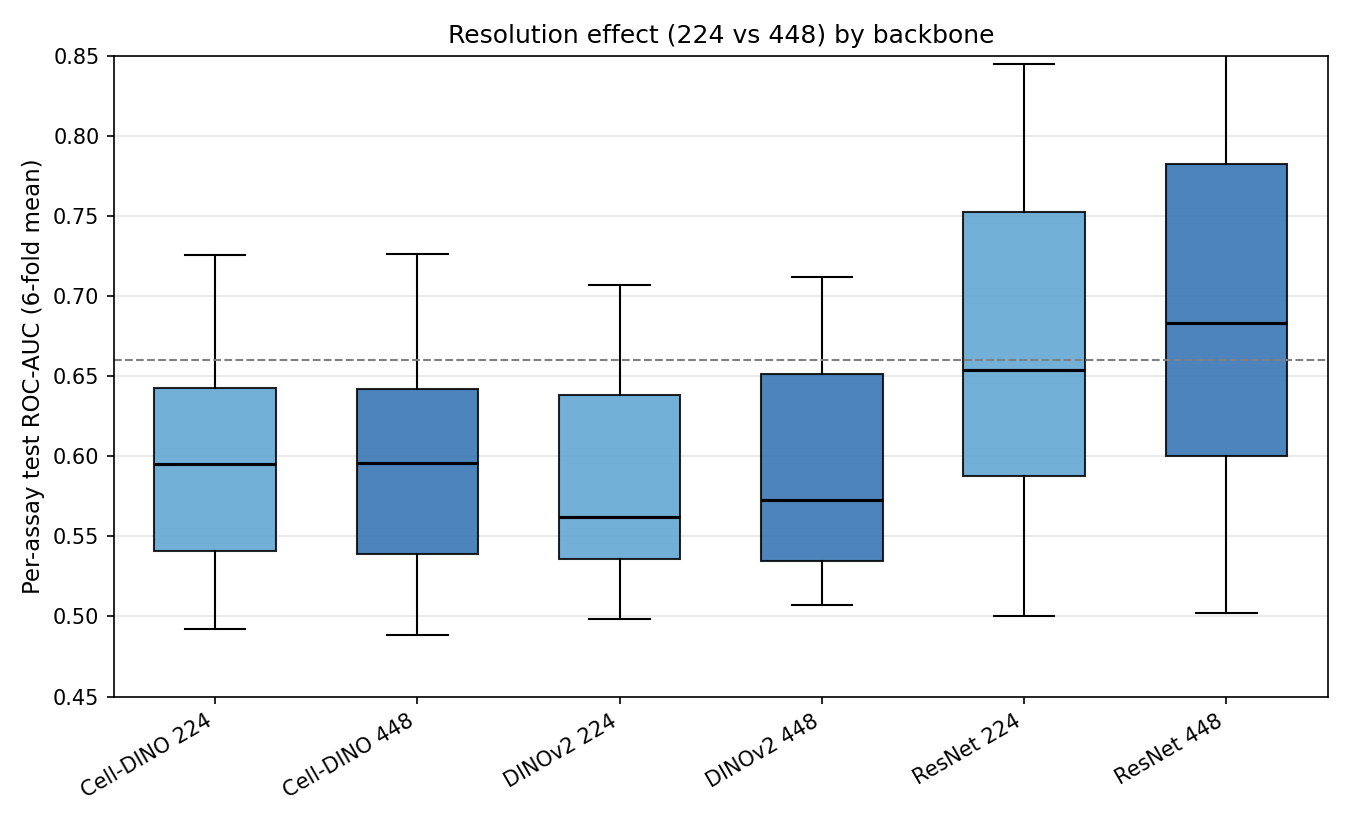
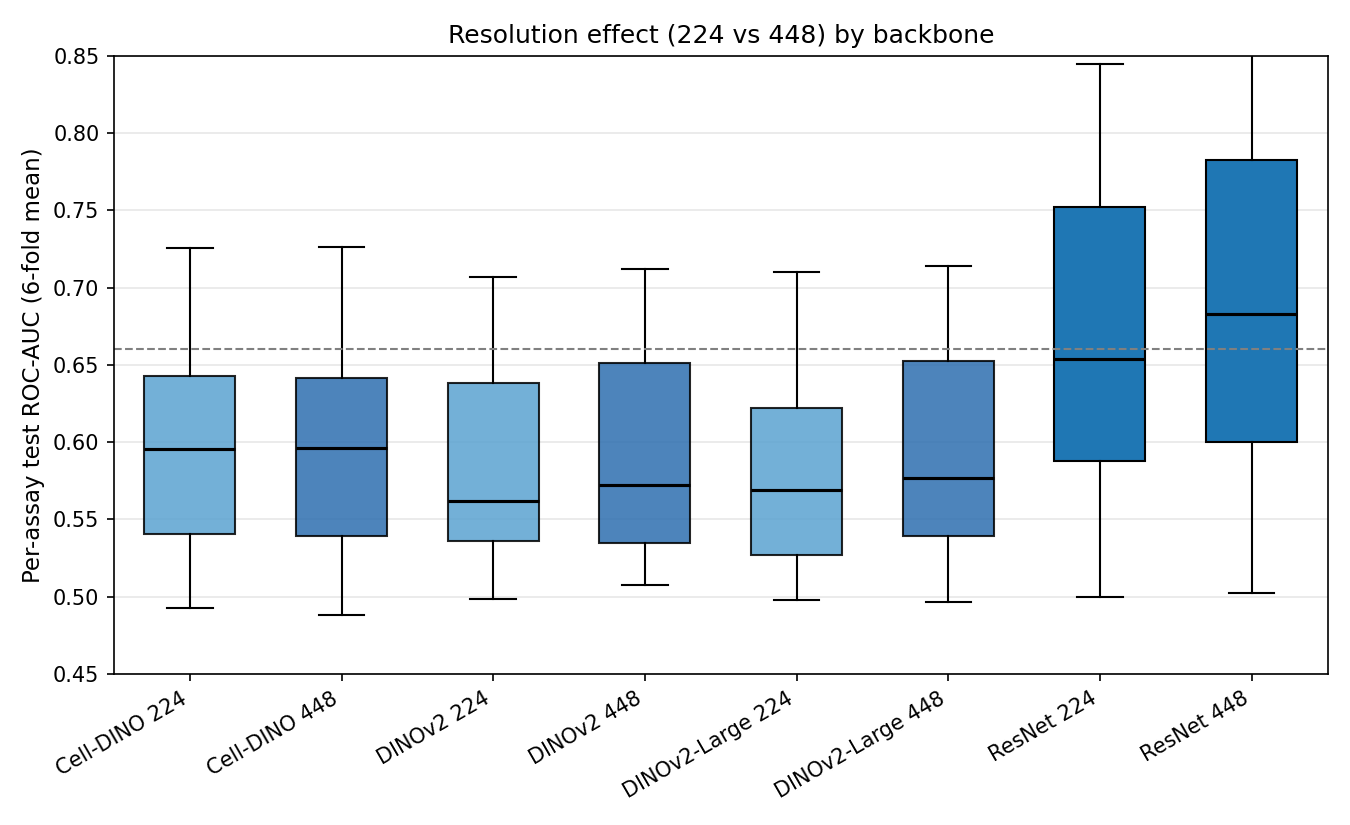
Add DINOv2-Large 448 arm: showcase folder, Fig C resolution comparison (matches DINOv2-Base's +~1pt pattern, 6/6 folds improve)

diff --git a/make_benchmark_figures.py b/make_benchmark_figures.py
@@ -44,6 +44,7 @@ ARMS = [
 RES_ARMS = [
     ("celldino_r224", "Cell-DINO 224"), ("celldino_r448", "Cell-DINO 448"),
     ("dino_r224", "DINOv2 224"), ("dino_r448", "DINOv2 448"),
+    ("dino_large_r224", "DINOv2-Large 224"), ("dino_large_r448", "DINOv2-Large 448"),
     ("resnet_r224", "ResNet 224"), ("resnet_r448", "ResNet 448"),
 ]
 

diff --git a/results_showcase/dinov2_large_frozen_448/README.md b/results_showcase/dinov2_large_frozen_448/README.md
@@ -1,0 +1,67 @@
+# DINOv2-Large -- Frozen Linear-Probe Arm @ 448 (Resolution Axis)
+
+Replication and extension of Fredin Haslum et al., *Nature Communications* 15:3470 (2024),
+on the public JUMP-CP Cell Painting bioactivity benchmark (source_11, 29 assays, 6-fold CV).
+
+Same frozen linear-probe pipeline as DINOv2-Large @ 224, run at 448 input. Together with the
+DINOv2-Base and Cell-DINO resolution arms, this confirms whether the 224->448 resolution
+benefit seen in DINOv2-Base also holds at larger scale (DINOv2-Large, 304M params). Public
+benchmark reference: **0.660 +/- 0.094**.
+
+## Result -- resolution helps DINOv2-Large too, same pattern as DINOv2-Base
+
+| Backbone | Regime | 224 | 448 | resolution effect |
+|-----|--------|-----|-----|-------------------|
+| DINOv2-Base (frozen) | ImageNet | 0.5796 +/- 0.0067 | 0.5890 +/- 0.0046 | +0.94 pt |
+| **DINOv2-Large** (frozen) | ImageNet | **0.5790 +/- 0.0066** | **0.5888 +/- 0.0071** | **+0.98 pt** |
+| Cell-DINO (frozen) | Cell Painting | 0.5932 +/- 0.0065 | 0.5928 +/- 0.0067 | ~0 |
+| ResNet50 (fine-tuned) | ImageNet | 0.6638 +/- 0.0153 | 0.6792 +/- 0.0245 | +1.5 pt |
+
+DINOv2-Large 448 per-fold test ROC-AUC: 0.5858, 0.5874, 0.5797, 0.5917, 0.6011, 0.5870.
+
+Paired 224 -> 448 change: +0.0077, +0.0111, +0.0114, +0.0039, +0.0188, +0.0058.
+**DINOv2-Large improves at 448 in all 6 of 6 folds** (+0.98 ROC-AUC points on average) --
+matching DINOv2-Base's per-fold consistency almost exactly.
+
+## What this shows
+
+**1. The resolution benefit for DINOv2-family backbones is scale-independent.**
+DINOv2-Base gains +0.94 points going 224 -> 448; DINOv2-Large gains +0.98 points -- the same
+effect size, within noise, despite a 3.5x difference in parameter count. Whatever makes higher
+resolution help this architecture family (finer patch-level detail relative to native
+pretraining resolution) does not depend on model size.
+
+**2. This reinforces, rather than complicates, the earlier scale-ladder finding.**
+DINOv2-Large and DINOv2-Base remain statistically indistinguishable at 224 (Nemenyi p=0.997)
+and now show near-identical resolution sensitivity at 448 as well. Two independent axes (raw
+performance, and response to resolution) both show scale alone changes nothing about this
+backbone's behaviour -- consistent with finding #2 in the main benchmark README (scale alone
+does not help, frozen).
+
+**3. Resolution's benefit is still model-dependent overall, not just size-dependent.**
+Both DINOv2 variants gain about a point at 448; Cell-DINO (pretrained on 128px crops) gains
+essentially nothing. The determining factor remains proximity to the backbone's own
+pretraining resolution, not parameter count, architecture family alone, or frozen-vs-fine-tuned
+status.
+
+## Method
+
+Identical locked recipe to every other frozen arm, and identical to the DINOv2-Large @ 224 arm
+in every respect except input resolution: frozen backbone, cached CLS embeddings, Linear(D, 29)
+head (D = 1024, auto-sized), masked focal-BCE loss, SGD momentum 0.9 + cosine schedule,
+lr = 0.02, train-only feature standardization, early stopping on validation ROC-AUC
+(patience 6), mean_roc_auc metric. Same source_11 CSV, same 6 folds, same masked labels.
+
+**Resolution mechanics**: per `_apply_resolution(res=448)`, the Resize step is skipped entirely
+and the crop is taken directly from the native 1080x1080 image at 448x448 -- giving
+FOV = 448/1080 = 0.415, matching the 224 arm's FOV (224/540 = 0.415) via a different path
+(224 resizes to 540 first, then crops; 448 crops straight from native resolution). This FOV-
+matching convention is identical to every other model's 224/448 comparison in this project.
+
+## Files
+
+- `cv_summary.csv` -- per-fold and mean +/- std test ROC-AUC
+- `cv_fold_spread.png` -- per-fold test ROC-AUC
+- `cv_per_assay.png` / `.csv` -- mean per-assay ROC-AUC across folds
+- `head_val_auc_overlay.png` -- validation ROC-AUC per epoch, one line per fold
+- `head_val_auc_meanband.png` -- mean validation ROC-AUC across folds (+/-1 std)
